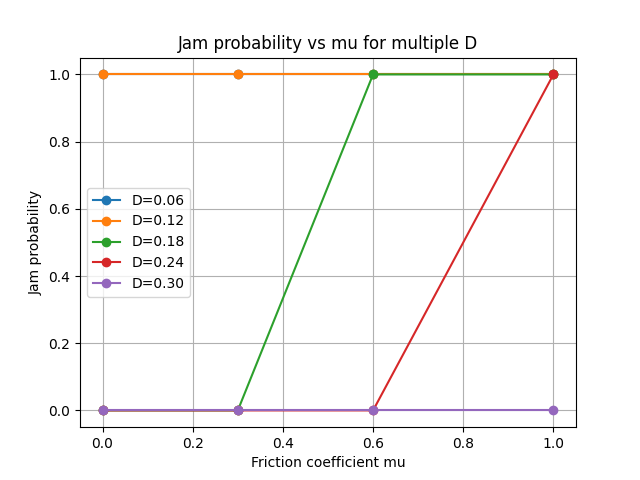
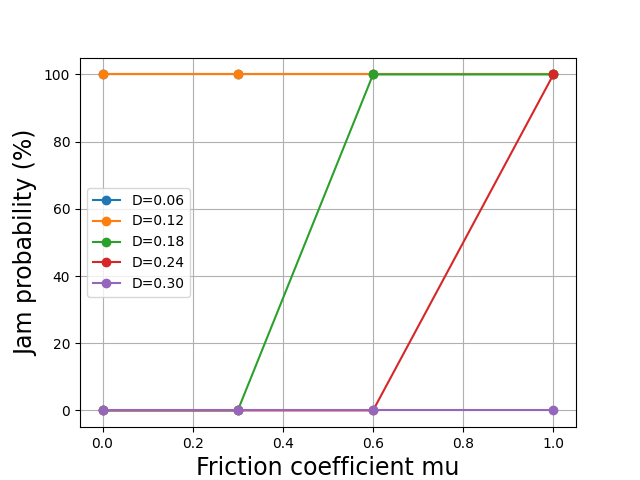
final push (real)

diff --git a/code/plot.py b/code/plot.py
@@ -83,7 +83,7 @@ for D in selected_D:
         removed_mu_multi[D]['removed'].append(rem)
 
 # --- 5) Remaining discs vs mu (para un D fijo, ejemplo primer D) ---
-D_fixed = D_values[0]
+D_fixed = D_values[2]
 mu_range = sorted(list(set([r['mu'] for r in results if r['D']==D_fixed])))
 remaining = []
 for mu in mu_range:
@@ -119,93 +119,102 @@ data = {
 def plot_jamD(D_values, jamD_prob, jamD_removed):
     # Jam probability vs D plot
     plt.figure()
-    plt.plot(D_values, jamD_prob, marker='o')
-    plt.xlabel('Orifice width D')
-    plt.ylabel('Jam probability (mu=0.6)')
-    plt.title('Jam probability vs Orifice width (mu=0.6)')
+    plt.plot(D_values, [p*100 for p in jamD_prob], marker='o')
+    plt.xlabel('Orifice width D (mm)', fontsize=17)  # tamaño letra eje X
+    plt.ylabel('Jam probability (%)', fontsize=17)  # tamaño letra eje Y
     plt.grid(True)
     plt.savefig(f"{save_dir}/md_jam_vs_D_friction_updated.png")
+    plt.xticks(fontsize=12)  # tamaño letra números eje X
+    plt.yticks(fontsize=12)  # tamaño letra números eje Y
     plt.show()
 
     # Removed discs vs D plot
     plt.figure()
     plt.plot(D_values, jamD_removed, marker='o')
-    plt.xlabel('Orifice width D')
-    plt.ylabel('Mean discs removed (mu=0.6)')
-    plt.title('Discs removed vs Orifice width (mu=0.6)')
+    plt.xlabel('Orifice width D (mm)', fontsize=17)  # tamaño letra eje X
+    plt.ylabel('Mean discs removed (#)', fontsize=17)  # tamaño letra eje Y
     plt.grid(True)
     plt.savefig(f"{save_dir}/md_removed_vs_D_friction_updated.png")
+    plt.xticks(fontsize=12)  # tamaño letra números eje X
+    plt.yticks(fontsize=12)  # tamaño letra números eje Y
     plt.show()
 
 def plot_jamMu(mu_values, jamMu_prob, jamMu_removed):
     plt.figure()
-    plt.plot(mu_values, jamMu_prob, marker='o')
-    plt.xlabel('Friction coefficient mu')
-    plt.ylabel('Jam probability')
-    plt.title('Jam probability vs Friction coefficient (D=0.06)')
+    plt.plot(mu_values, [p*100 for p in jamMu_prob], marker='o')
+    plt.xlabel('Friction coefficient mu', fontsize=17)  # tamaño letra eje X
+    plt.ylabel('Jam probability (%)', fontsize=17)  # tamaño letra eje Y
     plt.grid(True)
     plt.savefig(f"{save_dir}/md_jam_vs_mu.png")
+    plt.xticks(fontsize=12)  # tamaño letra números eje X
+    plt.yticks(fontsize=12)  # tamaño letra números eje Y
     plt.show()
 
     plt.figure()
     plt.plot(mu_values, jamMu_removed, marker='o')
-    plt.xlabel('Friction coefficient mu')
-    plt.ylabel('Mean discs removed')
-    plt.title('Discs removed vs Friction coefficient (D=0.06)')
+    plt.xlabel('Friction coefficient mu', fontsize=17)  # tamaño letra eje X
+    plt.ylabel('Mean discs removed (#)', fontsize=17)  # tamaño letra eje Y
     plt.grid(True)
     plt.savefig(f"{save_dir}/md_removed_vs_mu.png")
+    plt.xticks(fontsize=12)  # tamaño letra números eje X
+    plt.yticks(fontsize=12)  # tamaño letra números eje Y
     plt.show()
 
 def plot_jamDnoise(D_values, jamDnoisy_prob, jamDnoisy_removed):
     plt.figure()
-    plt.plot(D_values, jamDnoisy_prob, marker='o')
-    plt.xlabel('Orifice width D')
-    plt.ylabel('Jam probability (mu=0.6, noisy)')
-    plt.title('Jam probability vs D with radius noise (mu=0.6)')
+    plt.plot(D_values, [p*100 for p in jamDnoisy_prob], marker='o')
+    plt.xlabel('Orifice width D (mm)', fontsize=17)  # tamaño letra eje X
+    plt.ylabel('Jam probability (%)', fontsize=17)  # tamaño letra eje Y
     plt.grid(True)
     plt.savefig(f"{save_dir}/md_jam_vs_D_noise.png")
+    plt.xticks(fontsize=12)  # tamaño letra números eje X
+    plt.yticks(fontsize=12)  # tamaño letra números eje Y
     plt.show()
 
     plt.figure()
     plt.plot(D_values, jamDnoisy_removed, marker='o')
-    plt.xlabel('Orifice width D')
-    plt.ylabel('Mean discs removed (mu=0.6, noisy)')
-    plt.title('Discs removed vs D with radius noise (mu=0.6)')
+    plt.xlabel('Orifice width D (mm)', fontsize=17)  # tamaño letra eje X
+    plt.ylabel('Mean discs removed (#)', fontsize=17)  # tamaño letra eje Y
     plt.grid(True)
     plt.savefig(f"{save_dir}/md_removed_vs_D_noise.png")
+    plt.xticks(fontsize=12)  # tamaño letra números eje X
+    plt.yticks(fontsize=12)  # tamaño letra números eje Y
     plt.show()
 
 def plot_multipleD(selected_D, mu_values, jamMu_data, removed_data):
     plt.figure()
     for D in selected_D:
-        plt.plot(mu_values, jamMu_data[D]['prob'], marker='o', label=f'D={D:.2f}')
-    plt.xlabel('Friction coefficient mu')
-    plt.ylabel('Jam probability')
-    plt.title('Jam probability vs mu for multiple D')
+        plt.plot(mu_values, [p*100 for p in jamMu_data[D]['prob']], marker='o', label=f'D={D:.2f}')
+    plt.xlabel('Friction coefficient mu', fontsize=17)  # tamaño letra eje X
+    plt.ylabel('Jam probability (%)', fontsize=17)  # tamaño letra eje Y
     plt.legend()
     plt.grid(True)
     plt.savefig(f"{save_dir}/md_jam_vs_mu_multiple_D_updated.png")
+    plt.xticks(fontsize=12)  # tamaño letra números eje X
+    plt.yticks(fontsize=12)  # tamaño letra números eje Y
     plt.show()
 
     plt.figure()
     for D in selected_D:
         plt.plot(mu_values, removed_data[D]['removed'], marker='o', label=f'D={D:.2f}')
-    plt.xlabel('Friction coefficient mu')
-    plt.ylabel('Mean discs removed')
-    plt.title('Discs removed vs mu for multiple D')
+    plt.xlabel('Friction coefficient mu', fontsize=17)  # tamaño letra eje X
+    plt.ylabel('Mean discs removed (#)', fontsize=17)  # tamaño letra eje Y
     plt.legend()
     plt.grid(True)
     plt.savefig(f"{save_dir}/md_removed_vs_mu_multiple_D_updated.png")
+    plt.xticks(fontsize=12)  # tamaño letra números eje X
+    plt.yticks(fontsize=12)  # tamaño letra números eje Y
     plt.show()
 
 def plot_remainingDiscs(mu_values, remaining_data):
     plt.figure()
     plt.plot(mu_values, remaining_data, marker='o')
-    plt.xlabel('Friction coefficient mu')
-    plt.ylabel('Discs remaining in silo')
-    plt.title('Remaining discs vs friction coefficient')
+    plt.xlabel('Friction coefficient mu', fontsize=17)  # tamaño letra eje X
+    plt.ylabel('Discs remaining in silo (#)', fontsize=17)  # tamaño letra eje Y
     plt.grid(True)
     plt.savefig(f"{save_dir}/md_friction_vs_remaining.png")
+    plt.xticks(fontsize=12)  # tamaño letra números eje X
+    plt.yticks(fontsize=12)  # tamaño letra números eje Y
     plt.show()
 
 if __name__ == "__main__":

diff --git a/code/Model_project.py b/code/Model_project.py
@@ -5,12 +5,14 @@ import matplotlib.animation as animation
 # =============================================================================
 # SIMULATION PARAMETERS
 # =============================================================================
+
 N = 50  # Number of particles
-R_mean = 0.06  # Mean particle radius (m)
+R_mean = 0.02  # Mean particle radius (m)
+D = 3 * R_mean  # Funnel opening width (m) (orifice diameter)
+max_steps = 100000  # Max steps per simulation in batch mode
 m = 1.0  # Particle mass (kg)
 g = 9.81  # Gravity (m/s^2)
 dt = 0.0001  # Time step (s)
-D = 3 * R_mean  # Funnel opening width (m) (orifice diameter)
 substeps = 50  # Integration substeps per frame
 
 # Contact force parameters
@@ -346,7 +348,7 @@ def update(frame):
     return [],
 
 # BATCH MODE FUNCTIONS
-def run_single_simulation(N_sim, R_sim, D_sim, mu_sim, size_noise_sim):
+def run_single_simulation(N_sim, R_sim, D_sim, mu_sim, size_noise_sim, max_steps_sim):
     """Run a single simulation without animation"""
     global N, R_mean, D, mu, enable_size_noise
     global x, y, vx, vy, R, active, contact_xi
@@ -384,7 +386,7 @@ def run_single_simulation(N_sim, R_sim, D_sim, mu_sim, size_noise_sim):
     initialize_particles_random()
     
     # Run simulation
-    max_steps = 50000
+    max_steps = max_steps_sim
     step = 0
     while (np.sum(active) > 0 and not is_jammed) and step < max_steps:
         update(None)
@@ -399,7 +401,7 @@ def run_single_simulation(N_sim, R_sim, D_sim, mu_sim, size_noise_sim):
         'N': N
     }
 
-def run_batch_simulations():
+def run_batch_simulations(max_steps=100000):
     """Run multiple simulations and collect statistics"""
     results = []
     
@@ -415,7 +417,7 @@ def run_batch_simulations():
             print(f"\nRunning {batch_n_sims} simulations with D={D_val:.3f}m, μ={mu_val:.2f}")
             
             for sim_idx in range(batch_n_sims):
-                result = run_single_simulation(N, R_mean, D_val, mu_val, enable_size_noise)
+                result = run_single_simulation(N, R_mean, D_val, mu_val, enable_size_noise, max_steps)
                 results.append(result)
                 
                 status = "JAMMED" if result['jammed'] else "Complete"
@@ -430,17 +432,17 @@ def run_batch_simulations():
 # =============================================================================
 # MAIN EXECUTION
 
-# TOGGLES
-enable_animation = True  # Set to False for batch mode (multiple runs with statistics)
-enable_noise = True      # Toggle Brownian motion on/off
-enable_size_noise = False  # Toggle particle size variation
-
-# Batch mode parameters (only used when enable_animation = False)
-batch_n_sims = 10  # Number of simulations per parameter combination
-batch_D_values = [0.06, 0.12, 0.18, 0.24]  # Orifice widths to test
-batch_mu_values = [0.2, 0.4, 0.6]  # Friction coefficients to test
-
 if __name__ == "__main__":
+
+    # TOGGLES
+    enable_animation = True  # Set to False for batch mode (multiple runs with statistics)
+    enable_noise = True      # Toggle Brownian motion on/off
+    enable_size_noise = False  # Toggle particle size variation
+
+    # Batch mode parameters (only used when enable_animation = False)
+    batch_n_sims = 10  # Number of simulations per parameter combination
+    batch_D_values = [0.06, 0.12, 0.18, 0.24]  # Orifice widths to test
+    batch_mu_values = [0.2, 0.4, 0.6]  # Friction coefficients to test
     
     if enable_animation:
         # ANIMATION MODE - Single run with visualization
@@ -481,8 +483,9 @@ if __name__ == "__main__":
         plt.show()
         
     else:
+        R_mean = 0.06 # Mean particle radius (m)
         # BATCH MODE - Multiple runs with statistics
-        results = run_batch_simulations()
+        results = run_batch_simulations(max_steps=max_steps)
 
         # Save results to file
         with open("simulation_data.txt", "w") as f:
